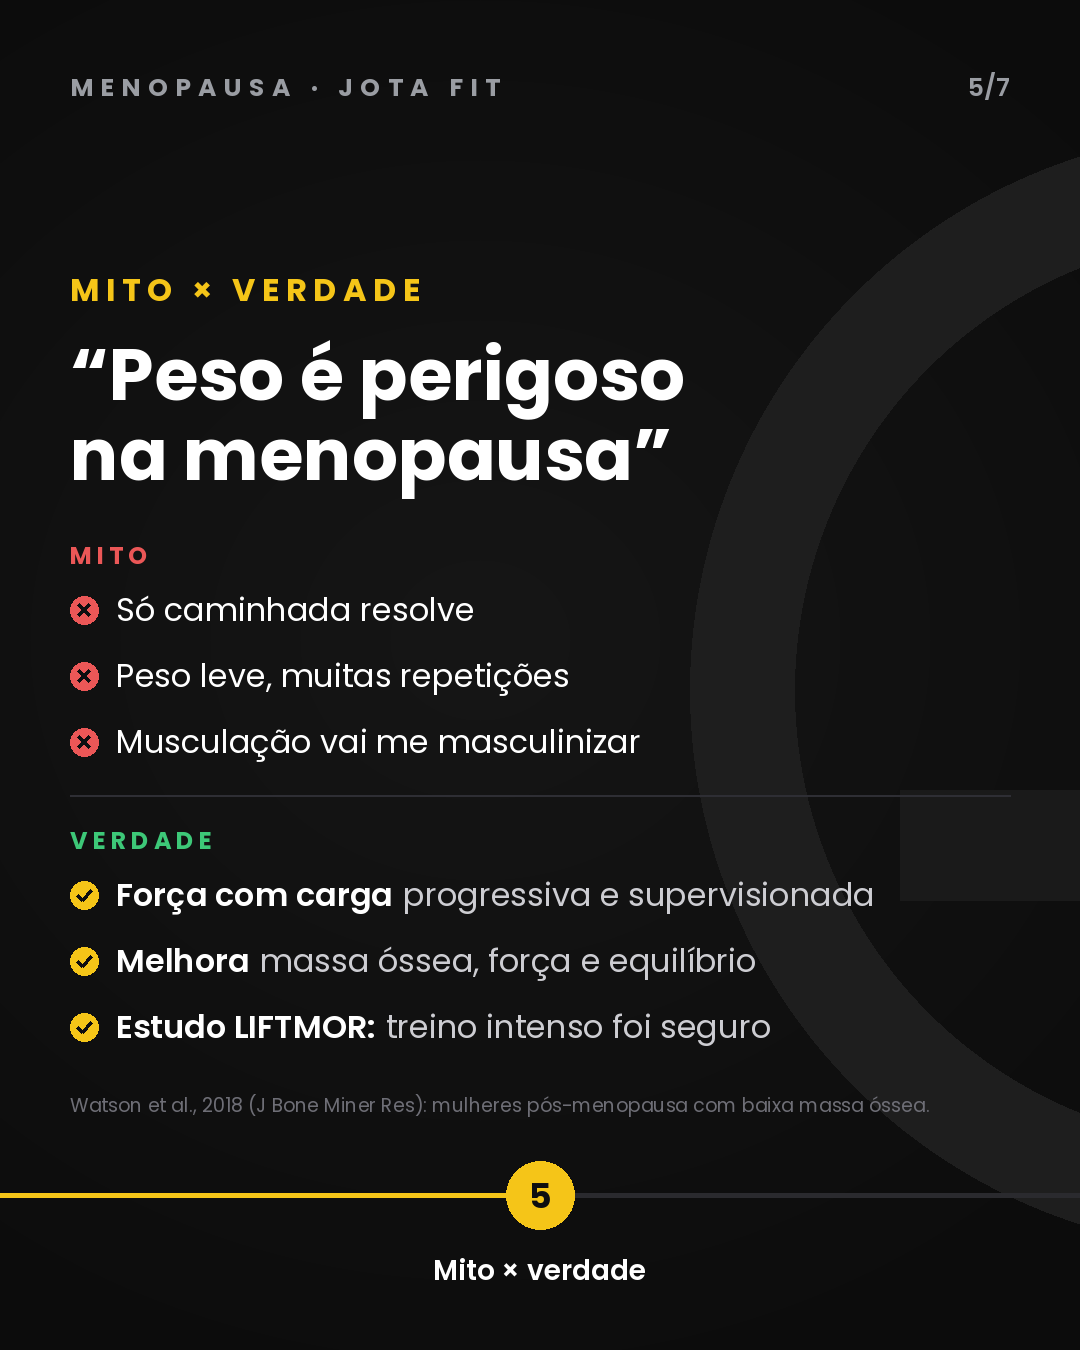
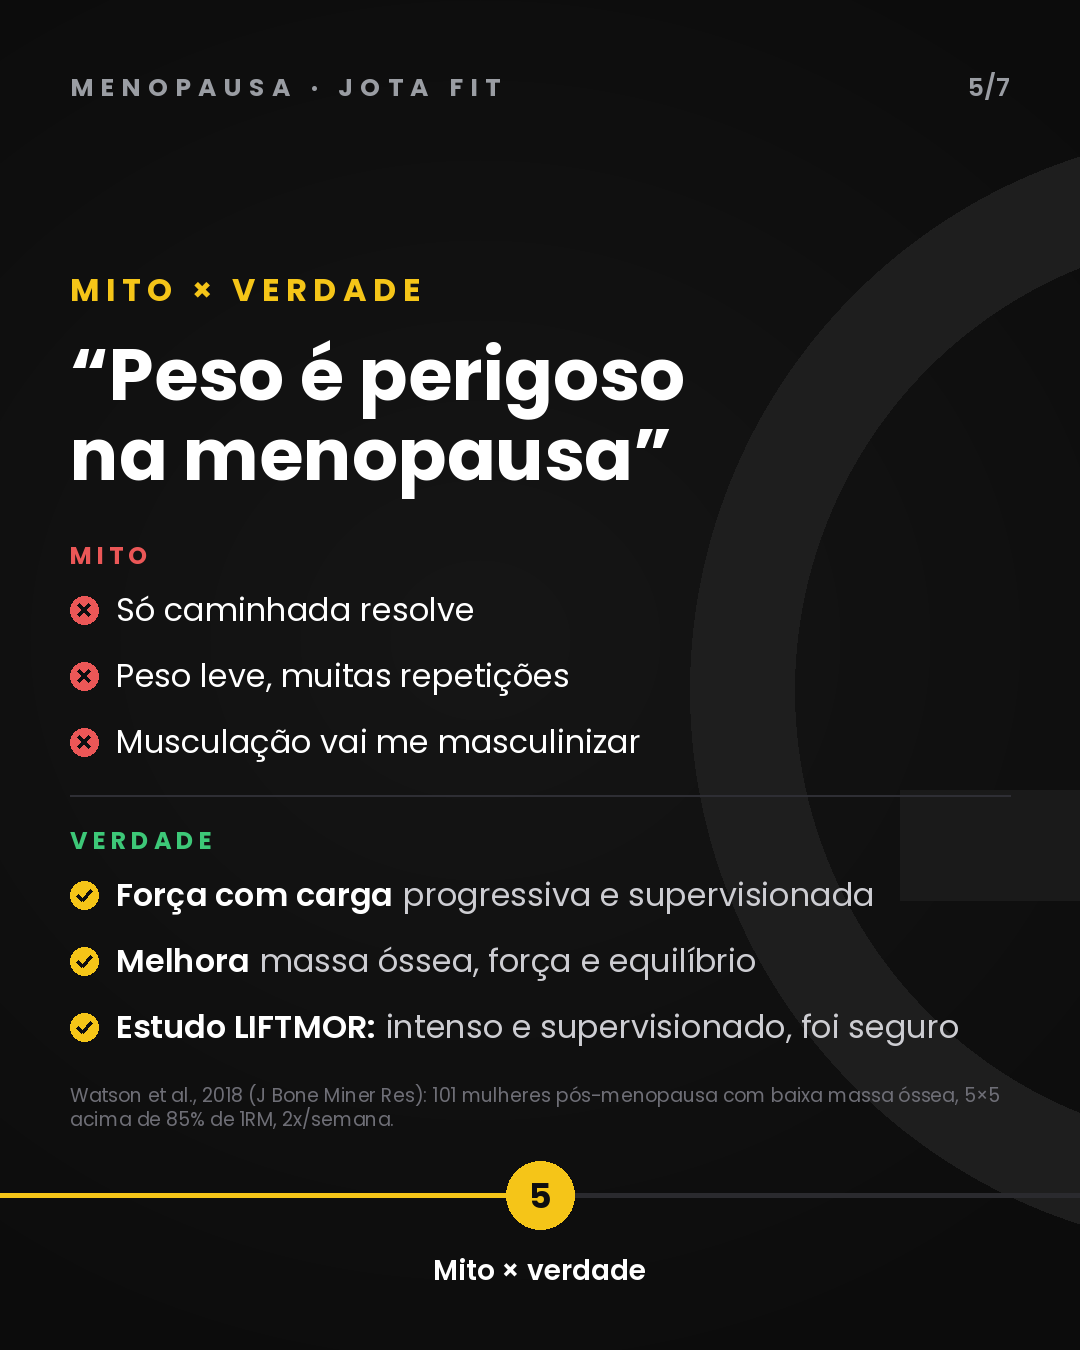
Carrosséis revisados com fontes verificadas no PubMed: correções de afirmações, rodapés com citações e fontes.md com DOIs
Claude-Session: https://claude.ai/code/session_01UuH9TpKCs4xLYma23g83NG

Changed region(s): [[0.0611, 0.8089, 0.8861, 0.84], [0.3667, 0.7467, 0.8861, 0.7778]]

diff --git a/analises/carrosseis/scripts/c2.py b/analises/carrosseis/scripts/c2.py
@@ -27,12 +27,13 @@ save(im, 'menopausa-01.png')
 im = base(2, T, HDR, mark='E')
 kicker(im, 'O QUE MUDA NO CORPO')
 title(im, ['O estrogênio cai.', 'O corpo sente.'], 375, 76)
-bullets(im, [('Músculo:', 'a perda acelera'),
-             ('Ossos:', 'a densidade cai mais rápido'),
-             ('Barriga:', 'a gordura migra para o abdômen'),
-             ('Glicose:', 'o corpo responde pior à insulina'),
-             ('Força:', 'tarefas do dia a dia pesam mais')], 600, 84, 34)
-statement(im, ['O estrogênio protegia. Agora quem', 'protege é o músculo.'], 1030, Y, 38)
+bullets(im, [('Músculo:', 'a massa magra começa a cair'),
+             ('Gordura:', 'o ritmo de ganho dobra'),
+             ('Barriga:', 'gordura visceral sobe 6 a 8% ao ano'),
+             ('Ossos:', 'a perda acelera no fim da transição'),
+             ('Balança:', 'quase igual, mas o corpo muda')], 600, 82, 34)
+statement(im, ['O estrogênio protegia. Agora quem', 'protege é o músculo.'], 1010, Y, 38)
+foot(im, 'Greendale et al., 2019 (JCI Insight); Samargandy et al., 2021 (Menopause); Finkelstein et al., 2008 (JCEM).', 1128)
 progress(im, 2, T, 'O que muda')
 save(im, 'menopausa-02.png')
 
@@ -59,7 +60,8 @@ chart(im, (70, 650, 1010, 1130), [
     ([0.92, 0.90, 0.86, 0.72, 0.60, 0.48], (120, 120, 128), 6, ('sem treino', 85, 40, 'd'), False),
     ([0.92, 0.90, 0.86, 0.84, 0.82, 0.79], Y, 8, ('com força', 85, -45, 'y'), True)],
     ['35', '45', '50', '55', '65', '75'], None, marks=[(0.4, 'menopausa')])
-ImageDraw.Draw(im).text((1010, 1158), 'gráfico ilustrativo', font=P('Regular', 20), fill=(110, 110, 118), anchor='rm')
+foot(im, 'Greendale et al., 2019. Ilustrativo.', 1158)
+if False: ImageDraw.Draw(im).text((1010, 1158), 'gráfico ilustrativo', font=P('Regular', 20), fill=(110, 110, 118), anchor='rm')
 progress(im, 4, T, 'A virada')
 save(im, 'menopausa-04.png')
 
@@ -74,8 +76,8 @@ d.line((70, 795, 1010, 795), fill=(46, 46, 52), width=2)
 tracked(d, (70, 840), 'VERDADE', P('Bold', 24), GRN, 5)
 bullets(im, [('Força com carga', 'progressiva e supervisionada'),
              ('Melhora', 'massa óssea, força e equilíbrio'),
-             ('Estudo LIFTMOR:', 'treino intenso foi seguro')], 895, 66, 32)
-foot(im, 'Watson et al., 2018 (J Bone Miner Res): mulheres pós-menopausa com baixa massa óssea.', 1105)
+             ('Estudo LIFTMOR:', 'intenso e supervisionado, foi seguro')], 895, 66, 32)
+foot(im, 'Watson et al., 2018 (J Bone Miner Res): 101 mulheres pós-menopausa com baixa massa óssea, 5×5 acima de 85% de 1RM, 2x/semana.', 1095)
 progress(im, 5, T, 'Mito × verdade')
 save(im, 'menopausa-05.png')
 
@@ -88,7 +90,8 @@ bullets(im, [('Força', '2 a 3x por semana'),
              ('Progressão', 'de carga, com técnica'),
              ('Proteína:', '1,2 a 1,6 g/kg + 25–30 g por refeição'),
              ('Sono e caminhada', 'todos os dias')], 600, 84, 32)
-statement(im, ['Exames em dia e conversa com seu médico.'], 1050, (200, 200, 205), 30)
+statement(im, ['Exames em dia e conversa com seu médico.'], 1020, (200, 200, 205), 30)
+foot(im, 'Bauer et al., 2013 (JAMDA); Morton et al., 2018 (BJSM); Paddon-Jones & Rasmussen, 2009.', 1100)
 progress(im, 6, T, 'O plano')
 save(im, 'menopausa-06.png')
 

diff --git a/analises/carrosseis/scripts/c1.py b/analises/carrosseis/scripts/c1.py
@@ -34,8 +34,8 @@ title(im, ['O tempo passa.', 'A diferença cresce.'], 375, 70)
 put_slice(im, I + 'sed_sq.png', 290, 770, 400)
 put_slice(im, I + 't70_sq.png', 790, 770, 400, Y)
 tag(im, 'NÃO TREINA', 290, 1000, 'd', 28); tag(im, 'TREINA', 790, 1000, 'y', 28)
-foot(im, 'Ilustração inspirada nas ressonâncias de Wroblewski et al., 2011 (Phys Sportsmed).', 1070)
-statement(im, ['Envelhecer é inevitável. Perder músculo, não.'], 1125, Y, 32)
+foot(im, 'Ilustração. Base: atletas master de 40 a 81 anos mantiveram a área muscular da coxa (Wroblewski et al., 2011).', 1050)
+statement(im, ['Envelhecer é inevitável. Perder tanto músculo, não.'], 1125, Y, 32)
 progress(im, 3, T, '70 anos')
 save(im, 'musculo-03.png')
 
@@ -43,11 +43,12 @@ save(im, 'musculo-03.png')
 im = base(4, T, mark='M')
 kicker(im, 'POR QUE ÓRGÃO?')
 title(im, ['Músculo trabalha', 'pela sua saúde'], 375, 76)
-bullets(im, [('Libera miocinas:', 'mensageiros anti-inflamatórios'),
-             ('Guarda glicose:', 'principal destino do açúcar no sangue'),
+bullets(im, [('Libera miocinas:', 'mensageiros para outros órgãos'),
+             ('Capta glicose:', 'principal tecido sob ação da insulina'),
              ('Protege:', 'ossos, articulações e equilíbrio'),
              ('Reserva:', 'proteína para doenças e cirurgias')], 600, 92, 32)
 statement(im, ['Massa magra é poupança de saúde.'], 1020, Y, 42)
+foot(im, 'Pedersen & Febbraio, 2012 (Nat Rev Endocrinol); DeFronzo & Tripathy, 2009 (Diabetes Care); Wolfe, 2006 (AJCN).', 1128)
 progress(im, 4, T, 'Órgão de saúde')
 save(im, 'musculo-04.png')
 
@@ -62,6 +63,7 @@ chart(im, (70, 650, 1010, 1130), [
     ([0.95, 0.93, 0.88, 0.80, 0.66, 0.50], (120, 120, 128), 6, ('não treina', 70, 40, 'd'), False),
     ([0.95, 0.95, 0.93, 0.90, 0.85, 0.80], Y, 8, ('treina', 70, -45, 'y'), True)],
     ['30', '40', '50', '60', '70', '80'], 'massa muscular (ilustrativo)')
+foot(im, 'Volpi et al., 2004 (Curr Opin Clin Nutr Metab Care).', 1158)
 progress(im, 5, T, 'A conta da idade')
 save(im, 'musculo-05.png')
 
@@ -74,7 +76,8 @@ bullets(im, [('Musculação', '2 a 3x por semana'),
              ('Perto da falha:', 'sobrando 1 a 3 reps'),
              ('Proteína:', '1,2 a 1,6 g/kg por dia'),
              ('Constância', 'vale mais que intensidade')], 600, 84, 34)
-statement(im, ['Nunca é tarde para começar.'], 1050, Y, 42)
+statement(im, ['Nunca é tarde para começar.'], 1030, Y, 42)
+foot(im, 'Robinson et al., 2024 (Sports Med); Morton et al., 2018 (BJSM); Bauer et al., 2013 (JAMDA).', 1110)
 progress(im, 6, T, 'O que fazer')
 save(im, 'musculo-06.png')
 

diff --git a/analises/carrosseis/scripts/carrossel.py b/analises/carrosseis/scripts/carrossel.py
@@ -108,8 +108,13 @@ def callout(im, p0, p1, text, align='l', col=(225, 225, 230)):
     for i, ln in enumerate(lines):
         d.text((p1[0] + (8 if align == 'l' else -8), p1[1] + i * 30 - (len(lines) - 1) * 15), ln, font=f, fill=col, anchor='lm' if align == 'l' else 'rm')
 
-def foot(im, text, y=1128):
-    ImageDraw.Draw(im).text((70, y), text, font=P('Regular', 19), fill=(110, 110, 118), anchor='lm')
+def foot(im, text, y=1128, maxw=940):
+    d = ImageDraw.Draw(im); f = P('Regular', 19); lines = ['']
+    for w in text.split(' '):
+        t = (lines[-1] + ' ' + w).strip()
+        if f.getlength(t) > maxw and lines[-1]: lines.append(w)
+        else: lines[-1] = t
+    for i, ln in enumerate(lines): d.text((70, y + i * 24), ln, font=f, fill=(110, 110, 118), anchor='lm')
 
 def save(im, name): im.convert('RGB').save(OUT + '/' + name, quality=95)
 

diff --git a/analises/carrosseis/fontes.md b/analises/carrosseis/fontes.md
@@ -1,0 +1,29 @@
+# Fontes verificadas (PubMed)
+
+Todas as afirmações dos carrosséis foram conferidas no PubMed em 24/11/2026.
+
+| Afirmação no post | Fonte | DOI |
+|---|---|---|
+| Atletas master de 40 a 81 anos mantiveram a área muscular da coxa; perda "da idade" é em boa parte desuso | Wroblewski et al., 2011, Phys Sportsmed | https://doi.org/10.3810/psm.2011.09.1933 |
+| Perda de músculo de 3–8% por década após os 30, maior após os 60 | Volpi, Nazemi & Fujita, 2004, Curr Opin Clin Nutr Metab Care | https://doi.org/10.1097/01.mco.0000134362.76653.b2 |
+| Músculo é órgão secretor: miocinas conversam com gordura, fígado, pâncreas, ossos e cérebro | Pedersen & Febbraio, 2012, Nat Rev Endocrinol | https://doi.org/10.1038/nrendo.2012.49 |
+| Músculo é o principal tecido de captação de glicose sob ação da insulina | DeFronzo & Tripathy, 2009, Diabetes Care | https://doi.org/10.2337/dc09-S302 |
+| Músculo é a principal reserva de aminoácidos do corpo (doenças, cirurgias) | Wolfe, 2006, Am J Clin Nutr | https://doi.org/10.1093/ajcn/84.3.475 |
+| Hipertrofia melhora quanto mais perto da falha | Robinson et al., 2024, Sports Med | https://doi.org/10.1007/s40279-024-02069-2 |
+| Proteína: ganhos de massa magra se estabilizam em ~1,6 g/kg/dia | Morton et al., 2018, Br J Sports Med | https://doi.org/10.1136/bjsports-2017-097608 |
+| Proteína: ≥1,2 g/kg/dia para idosos ativos | Bauer et al. (PROT-AGE), 2013, JAMDA | https://doi.org/10.1016/j.jamda.2013.05.021 |
+| 25–30 g de proteína por refeição | Paddon-Jones & Rasmussen, 2009, Curr Opin Clin Nutr Metab Care | https://doi.org/10.1097/MCO.0b013e32831cef8b |
+| Na transição menopausal o ganho de gordura dobra e a massa magra cai; peso não acelera | Greendale et al., 2019, JCI Insight (SWAN) | https://doi.org/10.1172/jci.insight.124865 |
+| Gordura visceral sobe 8,2%/ano (2 anos antes) e 5,8%/ano (após) a menopausa | Samargandy et al., 2021, Menopause (SWAN) | https://doi.org/10.1097/GME.0000000000001755 |
+| Perda óssea acelera no fim da perimenopausa e continua no início da pós-menopausa | Finkelstein et al., 2008, J Clin Endocrinol Metab (SWAN) | https://doi.org/10.1210/jc.2007-1876 |
+| Treino de força intenso e supervisionado (5×5 >85% 1RM) melhorou densidade óssea e função, com segurança | Watson et al., 2018, J Bone Miner Res (LIFTMOR) | https://doi.org/10.1002/jbmr.3284 |
+
+## O que foi corrigido na revisão
+- "Diferença não é genética: é estímulo" → genética conta; grande parte vem do estímulo.
+- "Miocinas anti-inflamatórias" → "mensageiros para outros órgãos" (o que a fonte de fato sustenta).
+- "Principal destino do açúcar no sangue" → "principal tecido sob ação da insulina" (após refeições, fígado também capta muito).
+- "Quem treina força conserva músculo (Wroblewski)" → o estudo era com atletas master (treino 4–5x/semana), não só força.
+- "Perder músculo, não" → "Perder tanto músculo, não" (alguma perda com a idade existe).
+- Menopausa: removido "o corpo responde pior à insulina" (não confirmado nas fontes encontradas); entraram dados confirmados do SWAN (gordura visceral, massa magra, peso).
+- LIFTMOR: especificado "intenso e supervisionado" e o protocolo.
+- Todas as fontes agora aparecem no rodapé do slide correspondente.

diff --git a/analises/carrosseis/legendas.md b/analises/carrosseis/legendas.md
@@ -10,11 +10,11 @@ Os cortes de coxa são **ilustrações educativas**, não fotos de peças anatô
 ### Legenda
 Mesma idade. Corpos diferentes. 🔬
 
-Vermelho é músculo, amarelo é gordura. E a diferença entre os dois cortes não é genética: é estímulo.
+Vermelho é músculo, amarelo é gordura. Genética conta, mas grande parte dessa diferença vem do estímulo: treino.
 
-🔹 Músculo funciona como órgão: libera miocinas, guarda glicose, protege ossos e articulações.
+🔹 Músculo funciona como órgão: libera miocinas que conversam com outros órgãos, é o principal tecido que capta glicose sob ação da insulina e é a grande reserva de proteína do corpo.
 🔹 Depois dos 30, sem treino, a perda pode chegar a 3–8% por década e acelera depois dos 60.
-🔹 Aos 70, quem treina força conserva muito mais músculo. As ressonâncias de atletas master mostram isso (Wroblewski et al., 2011).
+🔹 Em atletas master de 40 a 81 anos que treinavam 4 a 5x por semana, a área muscular da coxa não caiu com a idade (Wroblewski et al., 2011). Boa parte da perda que chamamos de "idade" é falta de uso.
 
 ✅ Musculação 2 a 3x por semana
 ✅ Progressão: mais reps, depois mais carga
@@ -38,16 +38,16 @@ Você já treina força ou ainda está no "depois eu começo"? 👇
 Menopausa não é sentença. É o momento de treinar mais forte. 💪
 
 Quando o estrogênio cai, o corpo sente:
-🔹 a perda de músculo acelera
-🔹 os ossos perdem densidade mais rápido
-🔹 a gordura migra pra barriga
-🔹 a glicose fica mais difícil de controlar
+🔹 a massa magra começa a cair e o ganho de gordura dobra de ritmo
+🔹 a gordura visceral (da barriga) sobe 6 a 8% ao ano perto da menopausa
+🔹 a perda óssea acelera no fim da transição
+🔹 a balança quase não muda, mas a composição do corpo muda
 
 O estrogênio protegia. Agora quem protege é o músculo.
 
 ❌ "Só caminhada resolve"
 ❌ "Peso é perigoso nessa fase"
-✅ Treino de força com carga progressiva e supervisionada melhora massa óssea, força e equilíbrio. No estudo LIFTMOR, o treino intenso foi seguro para mulheres pós-menopausa com baixa massa óssea.
+✅ Treino de força com carga progressiva e supervisionada melhora massa óssea, força e função. No estudo LIFTMOR, 101 mulheres pós-menopausa com baixa massa óssea treinaram pesado (5×5 acima de 85% da carga máxima), 2x por semana, com supervisão: a densidade óssea melhorou e o treino foi seguro.
 
 O plano:
 ✅ Força 2 a 3x por semana
@@ -64,6 +64,8 @@ O plano:
 Você está na menopausa ou perto dela? O que mais mudou no seu corpo? 👇
 
 ---
+
+Fontes completas com DOI: `fontes.md`.
 
 ## Ordem e cuidados
 - Poste o **Músculo e longevidade** primeiro. O de **Menopausa** sai 2 a 3 dias depois, e o slide 3 dele conversa com o primeiro.

diff --git a/CLAUDE.md b/CLAUDE.md
@@ -24,6 +24,7 @@ Copie um deles, troque o conteúdo e rode `python3 cX.py <pasta_saida>`.
 **Conteúdo: base científica obrigatória**
 - Fundamentar em **cinesiologia/biomecânica, fisiologia do exercício e educação física**, com linguagem simples para mulheres leigas.
 - Todo número ou afirmação forte precisa ter base na literatura; citar o estudo no slide com `foot()` (autor, ano, revista) quando for o argumento central.
+- **Checar cada dado no PubMed antes de entregar** (ferramenta PubMed): registrar autor, ano, revista e DOI em `fontes.md` da pasta do carrossel; o que não for confirmado sai do post ou é suavizado.
 - Nunca inventar dado. Gráficos esquemáticos levam a marca **"ilustrativo"**.
 - Imagens geradas por IA ou montadas são marcadas como **"ilustração educativa"**; nunca "imagem real".
 - Corrigir mitos com contraponto (slide "Mito × Verdade" quando couber).
